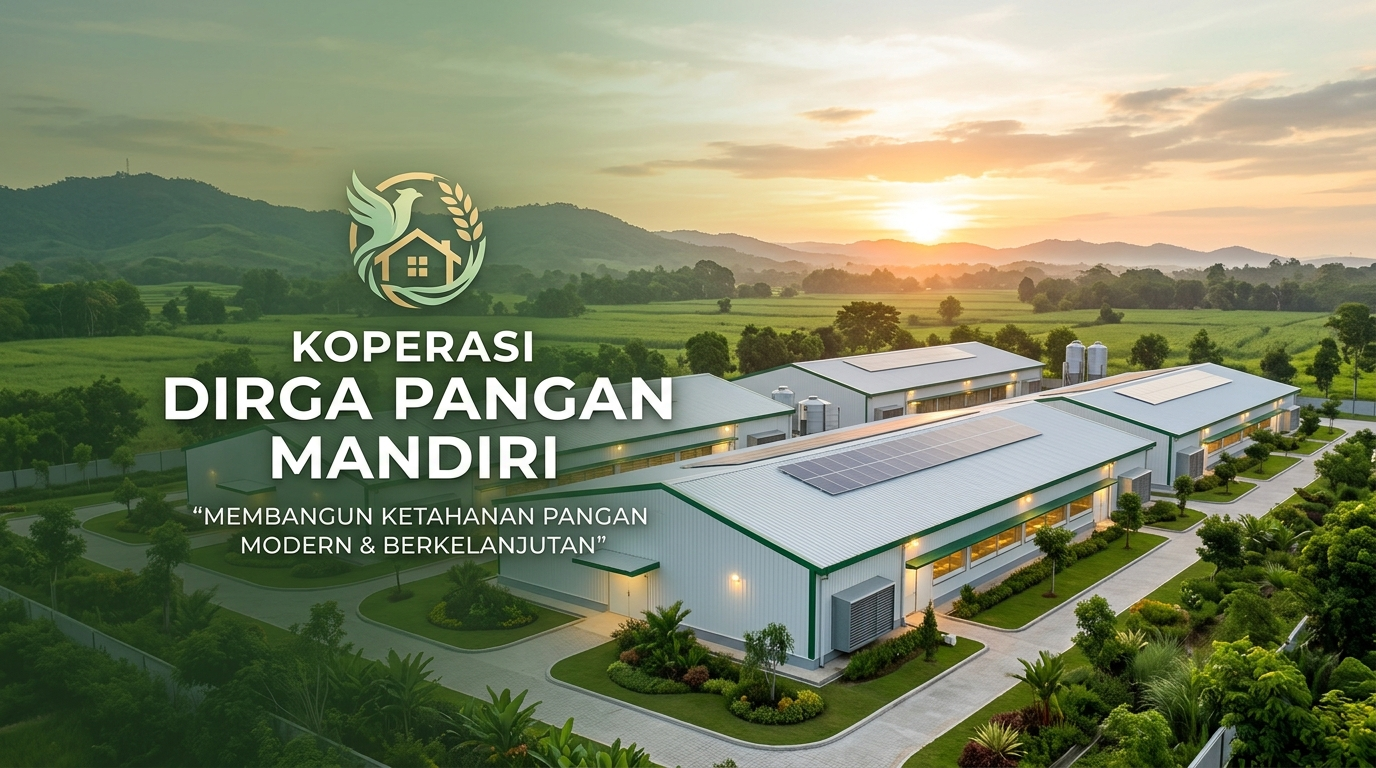
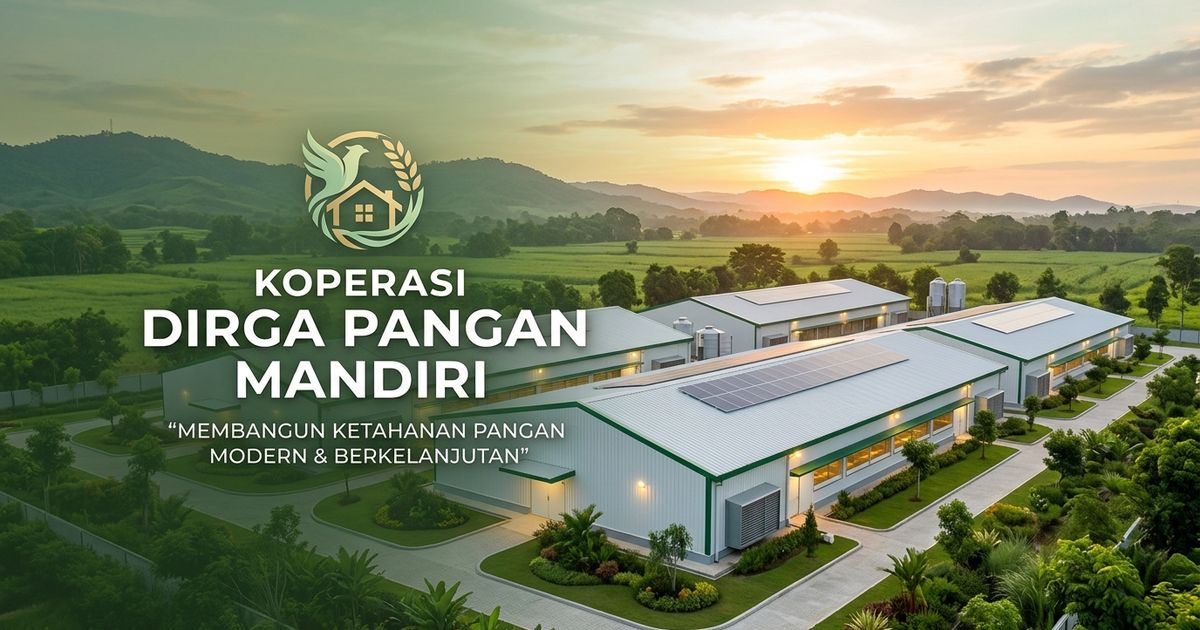
Update

diff --git a/src/app/page.tsx b/src/app/page.tsx
@@ -35,6 +35,21 @@ export default function HomePage() {
 
   return (
     <div className="flex flex-col">
+      {/* Preload Responsive LCP Hero Image for Instant Mobile LCP */}
+      <link
+        rel="preload"
+        as="image"
+        href={homeContent.hero.image.mobileSrc}
+        media="(max-width: 640px)"
+        type="image/webp"
+      />
+      <link
+        rel="preload"
+        as="image"
+        href={homeContent.hero.image.src}
+        media="(min-width: 641px)"
+        type="image/webp"
+      />
       {/* ========================================================= */}
       {/* 1. HERO SECTION (DENGAN TEMPAT GAMBAR UTAMA KOPERASI)      */}
       {/* ========================================================= */}
@@ -112,14 +127,27 @@ export default function HomePage() {
               <div className="group relative overflow-hidden rounded-2xl sm:rounded-3xl border-2 border-border bg-surface shadow-card hover:shadow-card-hover transition-all duration-300">
                 {/* Rasio Aspek Gambar: 4:3 di mobile, 16:9 di tablet, 4:3 / 5:4 di desktop */}
                 <div className="relative w-full aspect-[4/3] sm:aspect-[16/10] md:aspect-[16/9] lg:aspect-[4/3] xl:aspect-[5/4] bg-muted/30">
-                  <NextImage
-                    src={homeContent.hero.image.src}
-                    alt={homeContent.hero.image.alt}
-                    fill
-                    priority
-                    sizes="(max-width: 640px) 100vw, (max-width: 1024px) 90vw, 45vw"
-                    className="object-cover transition-transform duration-700 ease-out group-hover:scale-105"
-                  />
+                  <picture>
+                    <source
+                      type="image/webp"
+                      media="(max-width: 640px)"
+                      srcSet={homeContent.hero.image.mobileSrc}
+                    />
+                    <source
+                      type="image/webp"
+                      srcSet={homeContent.hero.image.src}
+                    />
+                    <img
+                      src={homeContent.hero.image.fallbackSrc}
+                      alt={homeContent.hero.image.alt}
+                      width={1200}
+                      height={670}
+                      loading="eager"
+                      fetchPriority="high"
+                      decoding="async"
+                      className="absolute inset-0 h-full w-full object-cover transition-transform duration-700 ease-out group-hover:scale-105"
+                    />
+                  </picture>
                 </div>
               </div>
             </div>

diff --git a/src/content/site-data.ts b/src/content/site-data.ts
@@ -173,7 +173,9 @@ export const homeContent = {
       href: "/profil",
     },
     image: {
-      src: "/images/hero-koperasi.jpg",
+      src: "/images/hero-koperasi.webp",
+      mobileSrc: "/images/hero-koperasi-mobile.webp",
+      fallbackSrc: "/images/hero-koperasi.jpg",
       alt: "Fasilitas Sentra Kandang Closed House Koperasi Produsen Dirga Pangan Mandiri",
       badge: "Sentra Fasilitas Koperasi",
       tag: "Placeholder Foto Utama",
